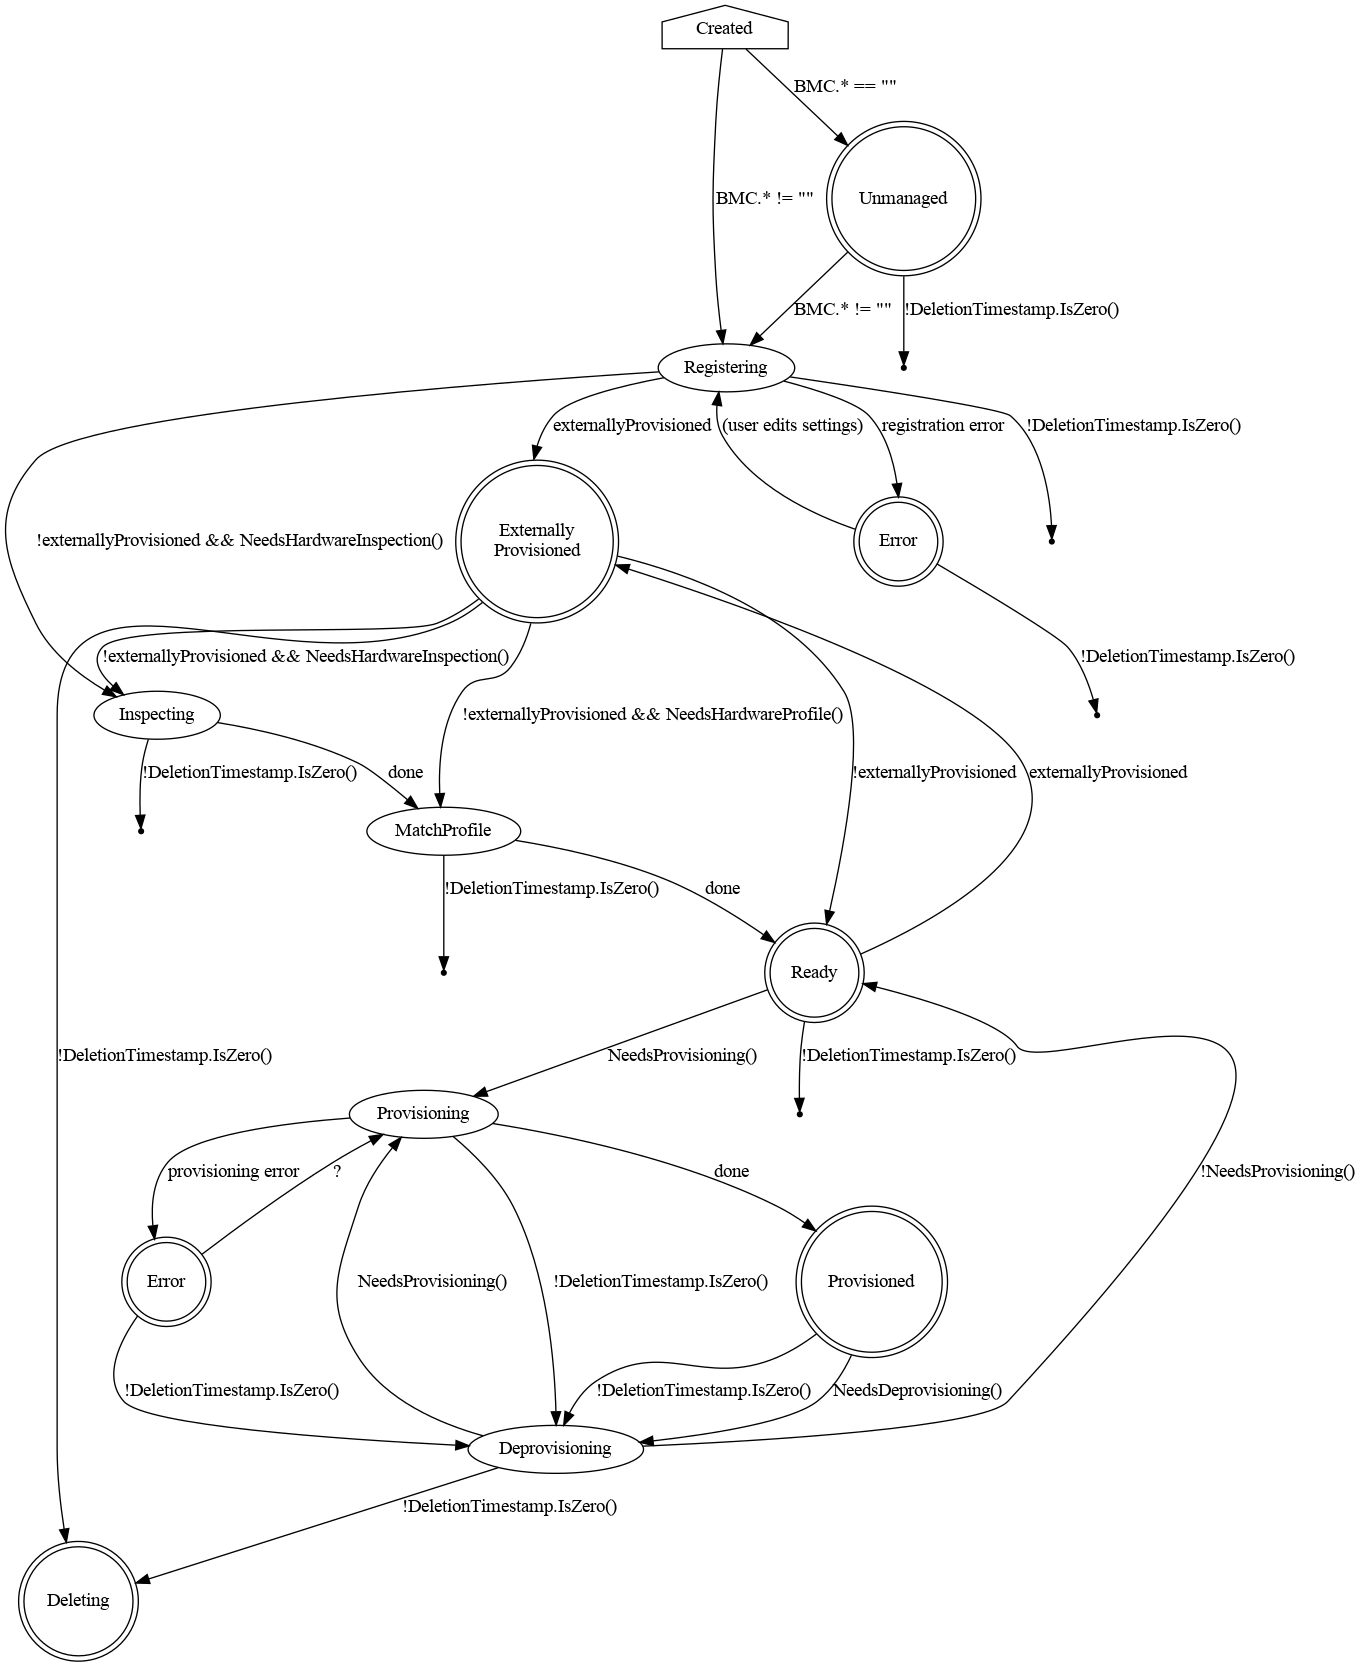
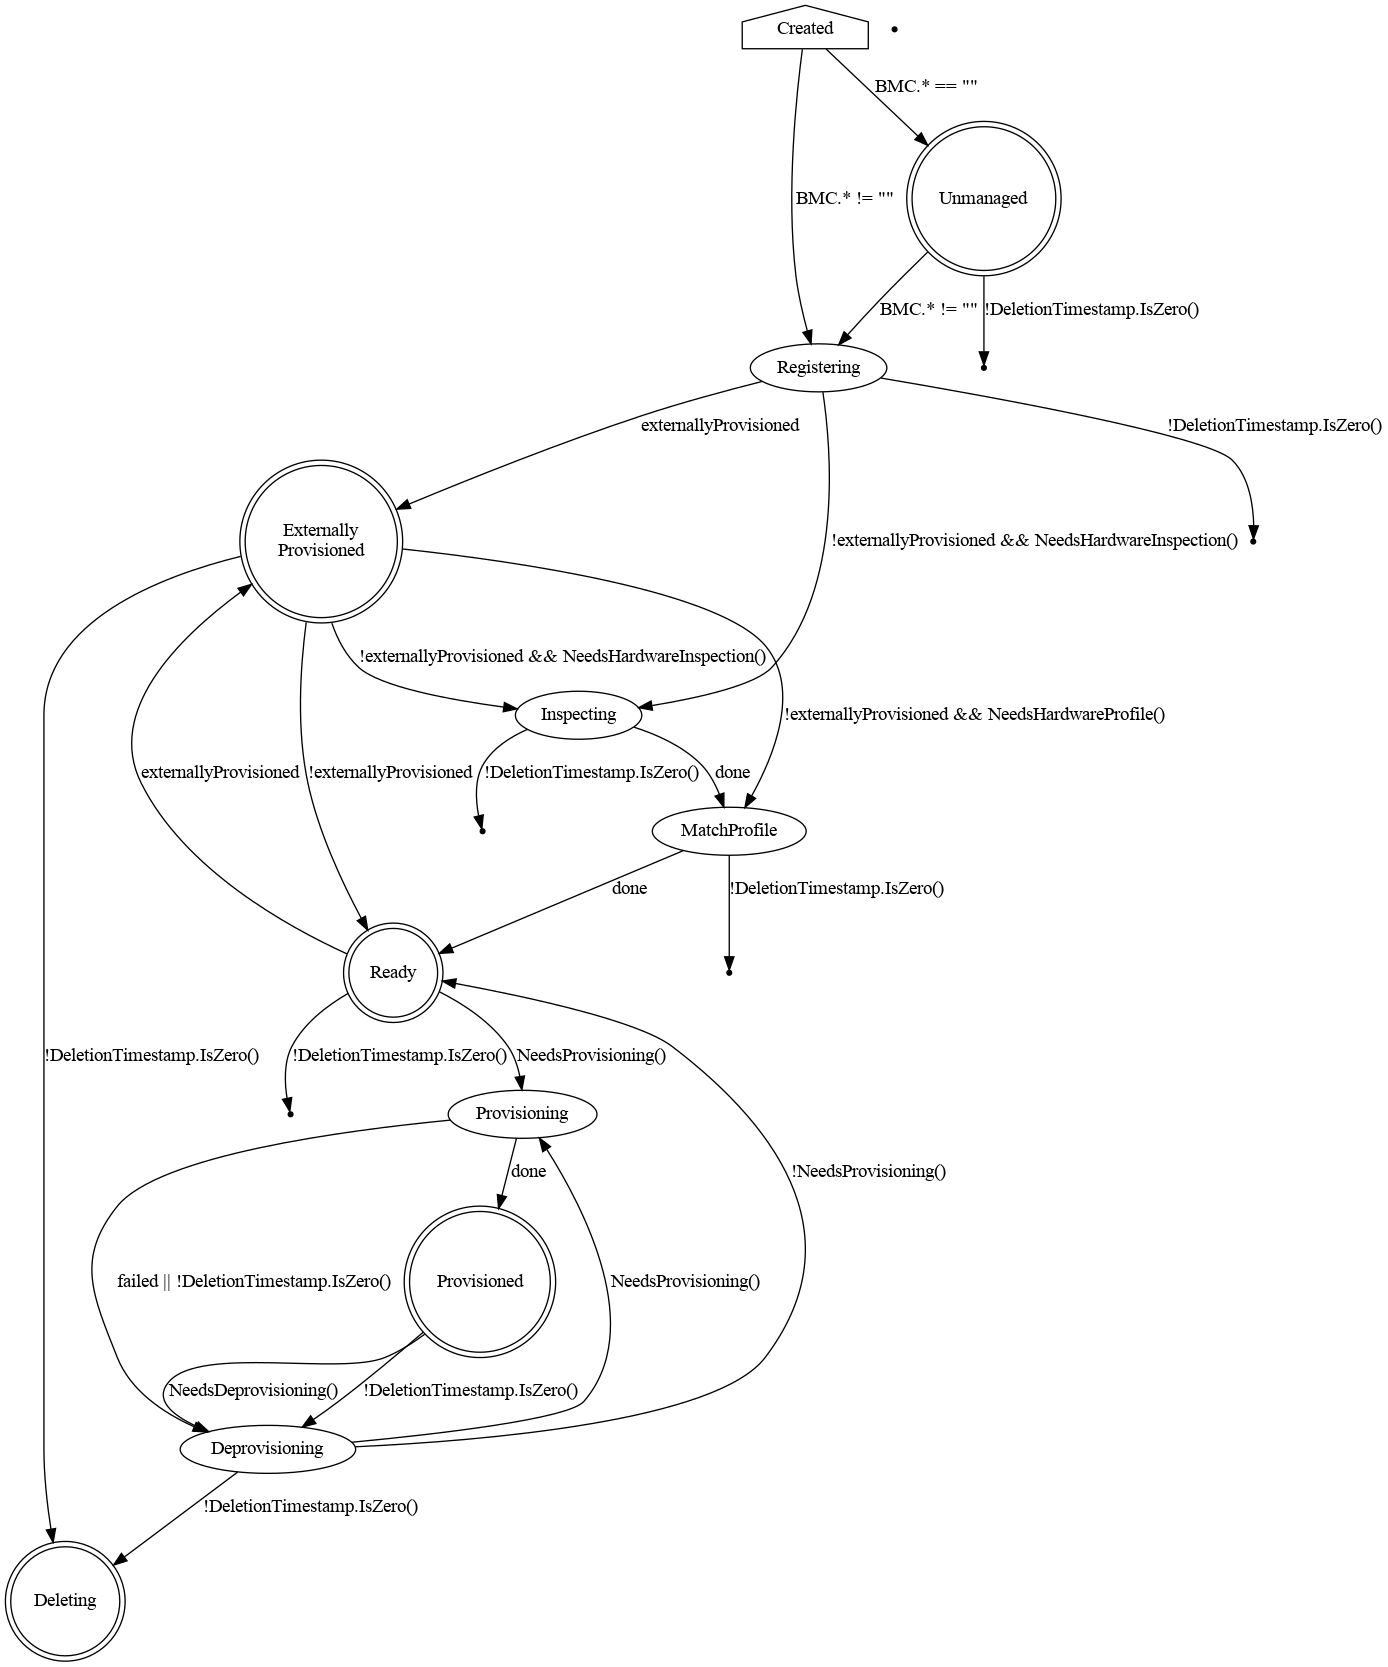
Remove *Error states
Changing the provisioning status is not how we actually indicate errors:
we have the operational status for that. The existence of these states
also has the effect of obscuring which state the Host was in (and hence
what we were trying to do) when the error occurred. For example, a
registration error can occur during provisioning.

Remove the RegistrationError, ProvisioningError, and
PowerManagementError states, in line with what the state machine diagram
envisions, but also remove the Error states from the diagram as they are
now orthogonal to the provisioning state.

diff --git a/controllers/metal3.io/host_state_machine.go b/controllers/metal3.io/host_state_machine.go
@@ -38,16 +38,13 @@ func (hsm *hostStateMachine) handlers() map[metal3v1alpha1.ProvisioningState]sta
 		metal3v1alpha1.StateNone:                  hsm.handleNone,
 		metal3v1alpha1.StateUnmanaged:             hsm.handleUnmanaged,
 		metal3v1alpha1.StateRegistering:           hsm.handleRegistering,
-		metal3v1alpha1.StateRegistrationError:     hsm.handleRegistrationError,
 		metal3v1alpha1.StateInspecting:            hsm.handleInspecting,
 		metal3v1alpha1.StateExternallyProvisioned: hsm.handleExternallyProvisioned,
 		metal3v1alpha1.StateMatchProfile:          hsm.handleMatchProfile,
 		metal3v1alpha1.StateAvailable:             hsm.handleReady,
 		metal3v1alpha1.StateReady:                 hsm.handleReady,
 		metal3v1alpha1.StateProvisioning:          hsm.handleProvisioning,
-		metal3v1alpha1.StateProvisioningError:     hsm.handleProvisioningError,
 		metal3v1alpha1.StateProvisioned:           hsm.handleProvisioned,
-		metal3v1alpha1.StatePowerManagementError:  hsm.handlePowerManagementError,
 		metal3v1alpha1.StateDeprovisioning:        hsm.handleDeprovisioning,
 		metal3v1alpha1.StateDeleting:              hsm.handleDeleting,
 	}
@@ -152,7 +149,7 @@ func (hsm *hostStateMachine) checkInitiateDelete() bool {
 	switch hsm.NextState {
 	default:
 		hsm.NextState = metal3v1alpha1.StateDeleting
-	case metal3v1alpha1.StateProvisioning, metal3v1alpha1.StateProvisioningError, metal3v1alpha1.StateProvisioned:
+	case metal3v1alpha1.StateProvisioning, metal3v1alpha1.StateProvisioned:
 		hsm.NextState = metal3v1alpha1.StateDeprovisioning
 	case metal3v1alpha1.StateDeprovisioning:
 		// Allow state machine to run to continue deprovisioning.
@@ -171,7 +168,7 @@ func (hsm *hostStateMachine) shouldInitiateRegister(info *reconcileInfo) bool {
 		default:
 			changeState = !hsm.Host.Status.GoodCredentials.Match(*info.bmcCredsSecret)
 		case metal3v1alpha1.StateNone, metal3v1alpha1.StateUnmanaged:
-		case metal3v1alpha1.StateRegistering, metal3v1alpha1.StateRegistrationError:
+		case metal3v1alpha1.StateRegistering:
 		case metal3v1alpha1.StateDeleting:
 		}
 	}
@@ -203,10 +200,18 @@ func (hsm *hostStateMachine) handleUnmanaged(info *reconcileInfo) actionResult {
 }
 
 func (hsm *hostStateMachine) handleRegistering(info *reconcileInfo) actionResult {
+	if hsm.Host.HasError() {
+		if hsm.Host.Status.TriedCredentials.Match(*info.bmcCredsSecret) {
+			// Already tried with these credentials; no point retrying
+			info.log.Info("Unmodified credentials; not retrying")
+			return actionFailed{ErrorType: metal3v1alpha1.RegistrationError}
+		}
+		info.log.Info("Modified credentials detected; will retry registration")
+	}
+
 	actResult := hsm.Reconciler.actionRegistering(hsm.Provisioner, info)
 
-	switch actResult.(type) {
-	case actionComplete:
+	if _, complete := actResult.(actionComplete); complete {
 		// TODO: In future this state should only occur before the host is
 		// registered the first time (though we must always check and
 		// re-register the host regardless of the current state). That will
@@ -223,19 +228,8 @@ func (hsm *hostStateMachine) handleRegistering(info *reconcileInfo) actionResult
 		default:
 			hsm.NextState = metal3v1alpha1.StateReady
 		}
-	case actionFailed:
-		hsm.NextState = metal3v1alpha1.StateRegistrationError
 	}
 	return actResult
-}
-
-func (hsm *hostStateMachine) handleRegistrationError(info *reconcileInfo) actionResult {
-	if !hsm.Host.Status.TriedCredentials.Match(*info.bmcCredsSecret) {
-		info.log.Info("Modified credentials detected; will retry registration")
-		hsm.NextState = metal3v1alpha1.StateRegistering
-		return actionComplete{}
-	}
-	return actionFailed{}
 }
 
 func (hsm *hostStateMachine) handleInspecting(info *reconcileInfo) actionResult {
@@ -256,16 +250,7 @@ func (hsm *hostStateMachine) handleMatchProfile(info *reconcileInfo) actionResul
 
 func (hsm *hostStateMachine) handleExternallyProvisioned(info *reconcileInfo) actionResult {
 	if hsm.Host.Spec.ExternallyProvisioned {
-		actResult := hsm.Reconciler.actionManageSteadyState(hsm.Provisioner, info)
-		if r, f := actResult.(actionFailed); f {
-			switch r.ErrorType {
-			case metal3v1alpha1.PowerManagementError:
-				hsm.NextState = metal3v1alpha1.StatePowerManagementError
-			case metal3v1alpha1.RegistrationError:
-				hsm.NextState = metal3v1alpha1.StateRegistrationError
-			}
-		}
-		return actResult
+		return hsm.Reconciler.actionManageSteadyState(hsm.Provisioner, info)
 	}
 
 	switch {
@@ -287,21 +272,16 @@ func (hsm *hostStateMachine) handleReady(info *reconcileInfo) actionResult {
 
 	actResult := hsm.Reconciler.actionManageReady(hsm.Provisioner, info)
 
-	switch r := actResult.(type) {
-	case actionComplete:
+	if _, complete := actResult.(actionComplete); complete {
 		hsm.NextState = metal3v1alpha1.StateProvisioning
-	case actionFailed:
-		switch r.ErrorType {
-		case metal3v1alpha1.PowerManagementError:
-			hsm.NextState = metal3v1alpha1.StatePowerManagementError
-		case metal3v1alpha1.RegistrationError:
-			hsm.NextState = metal3v1alpha1.StateRegistrationError
-		}
 	}
 	return actResult
 }
 
 func (hsm *hostStateMachine) provisioningCancelled() bool {
+	if hsm.Host.HasError() {
+		return true
+	}
 	if hsm.Host.Spec.Image == nil {
 		return true
 	}
@@ -324,23 +304,10 @@ func (hsm *hostStateMachine) handleProvisioning(info *reconcileInfo) actionResul
 	}
 
 	actResult := hsm.Reconciler.actionProvisioning(hsm.Provisioner, info)
-	switch actResult.(type) {
-	case actionComplete:
+	if _, complete := actResult.(actionComplete); complete {
 		hsm.NextState = metal3v1alpha1.StateProvisioned
-	case actionFailed:
-		hsm.NextState = metal3v1alpha1.StateProvisioningError
 	}
 	return actResult
-}
-
-func (hsm *hostStateMachine) handleProvisioningError(info *reconcileInfo) actionResult {
-	switch {
-	case hsm.Host.Spec.ExternallyProvisioned:
-		hsm.NextState = metal3v1alpha1.StateExternallyProvisioned
-	default:
-		hsm.NextState = metal3v1alpha1.StateDeprovisioning
-	}
-	return actionComplete{}
 }
 
 func (hsm *hostStateMachine) handleProvisioned(info *reconcileInfo) actionResult {
@@ -349,28 +316,7 @@ func (hsm *hostStateMachine) handleProvisioned(info *reconcileInfo) actionResult
 		return actionComplete{}
 	}
 
-	actResult := hsm.Reconciler.actionManageSteadyState(hsm.Provisioner, info)
-	if r, f := actResult.(actionFailed); f {
-		switch r.ErrorType {
-		case metal3v1alpha1.PowerManagementError:
-			hsm.NextState = metal3v1alpha1.StatePowerManagementError
-		case metal3v1alpha1.RegistrationError:
-			hsm.NextState = metal3v1alpha1.StateRegistrationError
-		}
-	}
-	return actResult
-}
-
-func (hsm *hostStateMachine) handlePowerManagementError(info *reconcileInfo) actionResult {
-	switch {
-	case hsm.Host.Spec.ExternallyProvisioned:
-		hsm.NextState = metal3v1alpha1.StateExternallyProvisioned
-	case hsm.Host.WasProvisioned():
-		hsm.NextState = metal3v1alpha1.StateProvisioned
-	default:
-		hsm.NextState = metal3v1alpha1.StateReady
-	}
-	return actionComplete{}
+	return hsm.Reconciler.actionManageSteadyState(hsm.Provisioner, info)
 }
 
 func (hsm *hostStateMachine) handleDeprovisioning(info *reconcileInfo) actionResult {
@@ -393,8 +339,6 @@ func (hsm *hostStateMachine) handleDeprovisioning(info *reconcileInfo) actionRes
 			hsm.NextState = metal3v1alpha1.StateDeleting
 			info.postSaveCallbacks = append(info.postSaveCallbacks, deleteWithoutDeprov.Inc)
 			actResult = actionComplete{}
-		} else {
-			hsm.NextState = metal3v1alpha1.StateProvisioningError
 		}
 	}
 	return actResult

diff --git a/apis/metal3.io/v1alpha1/baremetalhost_types.go b/apis/metal3.io/v1alpha1/baremetalhost_types.go
@@ -150,10 +150,6 @@ const (
 	// register the host
 	StateUnmanaged ProvisioningState = "unmanaged"
 
-	// StateRegistrationError means there was an error registering the
-	// host with the backend
-	StateRegistrationError ProvisioningState = "registration error"
-
 	// StateRegistering means we are telling the backend about the host
 	StateRegistering ProvisioningState = "registering"
 
@@ -171,10 +167,6 @@ const (
 	// disk(s)
 	StateProvisioning ProvisioningState = "provisioning"
 
-	// StateProvisioningError means we are writing an image to the
-	// host's disk(s)
-	StateProvisioningError ProvisioningState = "provisioning error"
-
 	// StateProvisioned means we have written an image to the host's
 	// disk(s)
 	StateProvisioned ProvisioningState = "provisioned"
@@ -190,10 +182,6 @@ const (
 	// StateInspecting means we are running the agent on the host to
 	// learn about the hardware components available there
 	StateInspecting ProvisioningState = "inspecting"
-
-	// StatePowerManagementError means something went wrong trying to
-	// power the server on or off.
-	StatePowerManagementError ProvisioningState = "power management error"
 
 	// StateDeleting means we are in the process of cleaning up the host
 	// ready for deletion

diff --git a/docs/api.md b/docs/api.md
@@ -276,22 +276,17 @@ Settings related to deploying an image to the host.
 * *state* -- The current state of any ongoing provisioning operation.
   The following are the currently supported ones:
   * *\<empty string\>* -- There is no provisioning happening, at the moment.
-  * *registration error* -- The details for the host's BMC are
-    either incorrect or incomplete therfore the host could not be managed.
   * *registering* -- The host's BMC details are being checked.
   * *match profile* -- The discovered hardware details on the host
     are being compared against known profiles.
   * *ready* -- The host is available to be consumed.
   * *provisioning* -- An image is being written to the host's disk(s).
-  * *provisioning error* -- The image could not be written to the host.
   * *provisioned* -- An image has been completely written to the host's
     disk(s).
   * *externally provisioned* -- Metal³ does not manage the image on the host.
   * *deprovisioning* -- The image is being wiped from the host's disk(s).
   * *inspecting* -- The hardware details for the host are being collected
     by an agent.
-  * *power management error* -- An error was found while trying to power
-    the host either on or off.
 * *id* -- The unique identifier for the service in the underlying
   provisioning tool.
 * *image* -- The image most recently provisioned to the host.
